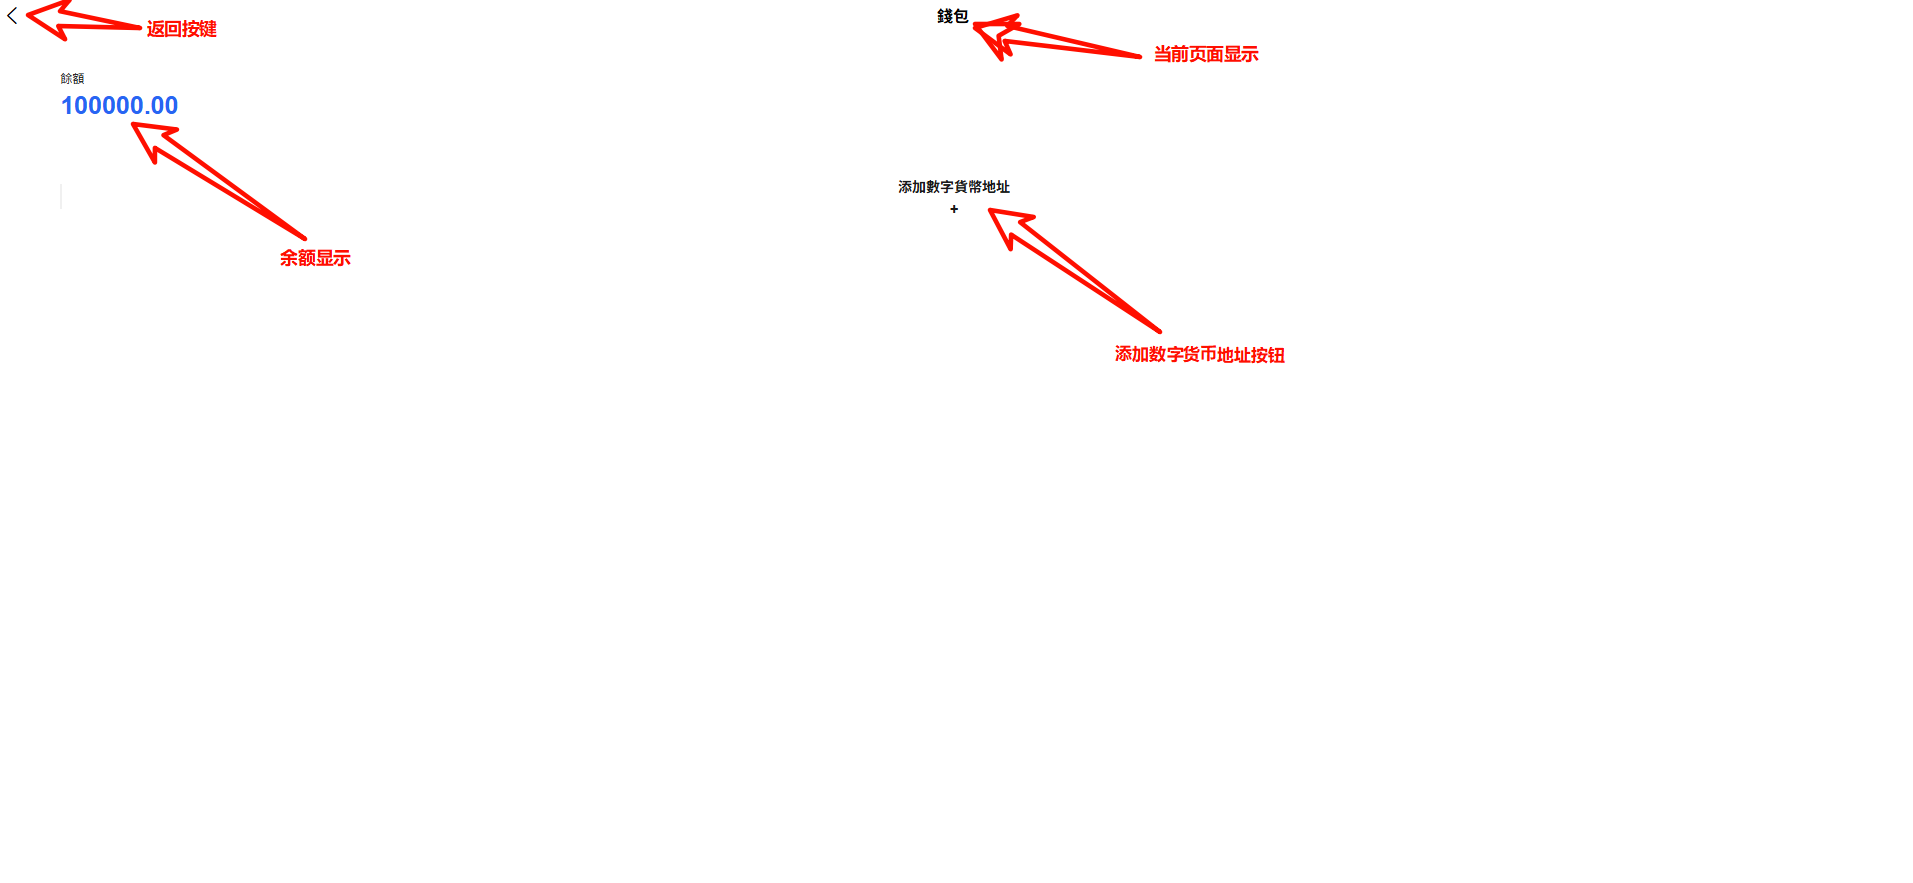
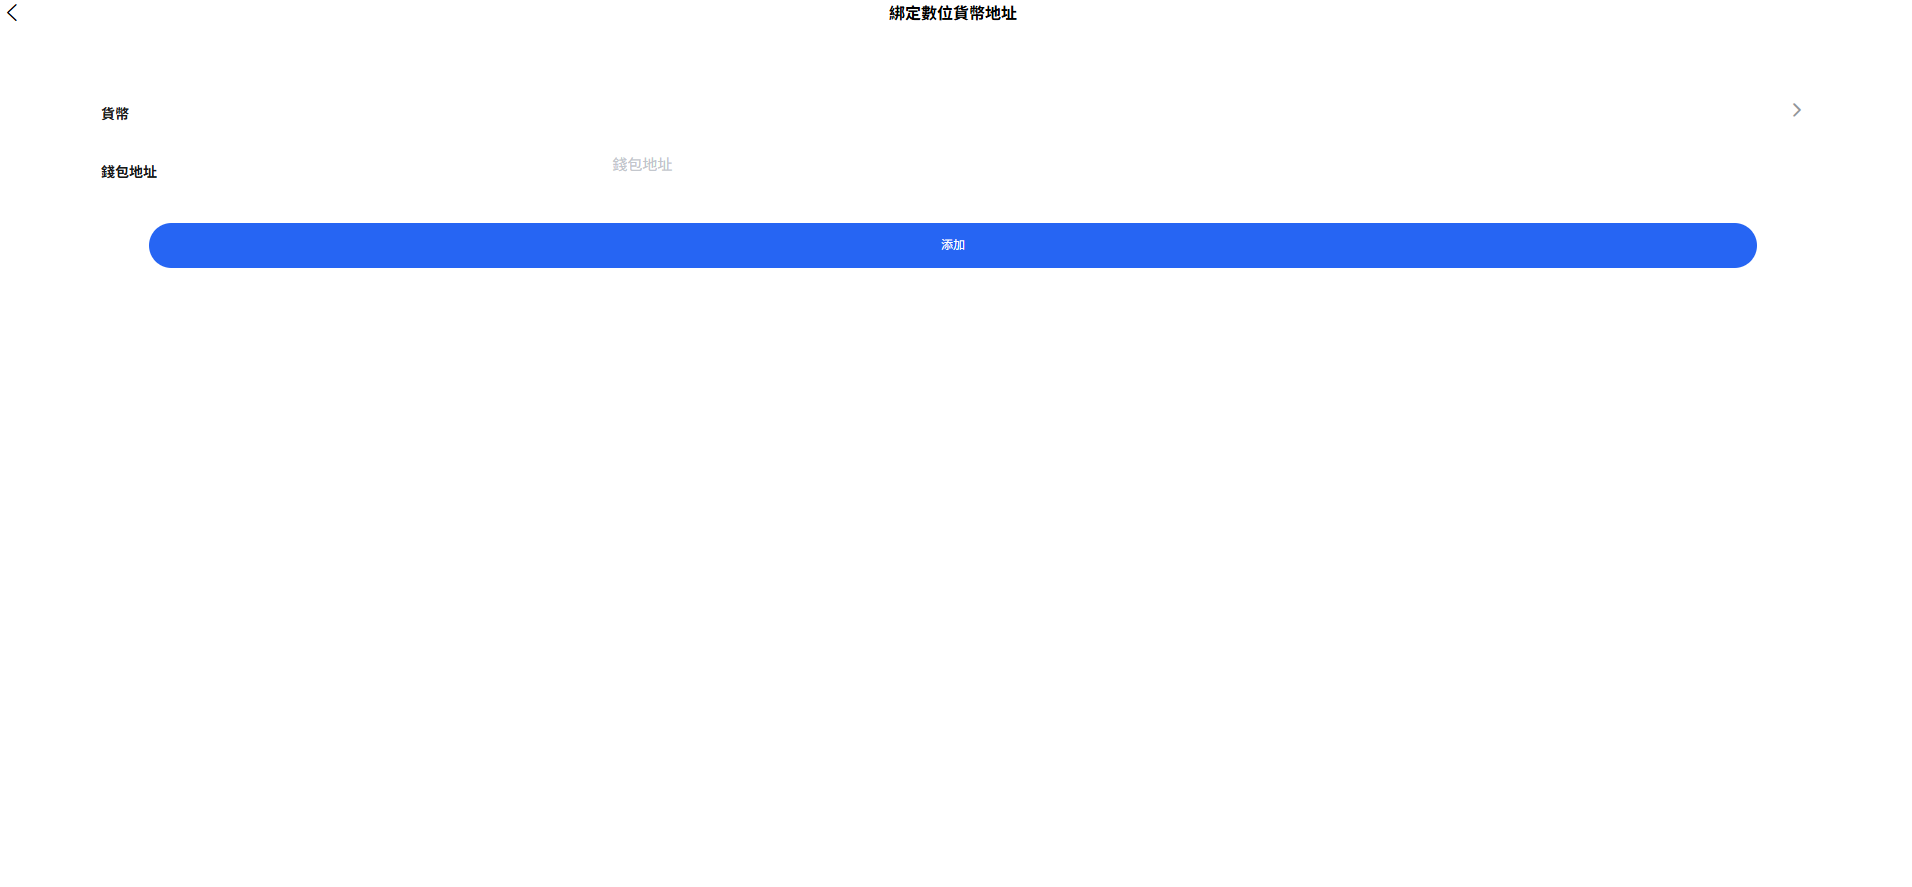
feat: 将数字货币地址绑定从弹窗改为独立页面

diff --git a/src/app/[locale]/wallet/page.tsx b/src/app/[locale]/wallet/page.tsx
@@ -19,50 +19,6 @@ export default function WalletAuthorizePage() {
   const { balance, syncFromBackend } = useAssetStore();
 
   const [wallets, setWallets] = useState<Wallet[]>([]);
-  const [newWalletAddress, setNewWalletAddress] = useState('');
-  const [selectedChain, setSelectedChain] = useState('ETH');
-  const [isConnecting, setIsConnecting] = useState(false);
-  const [error, setError] = useState('');
-  const [showAddModal, setShowAddModal] = useState(false);
-
-  const handleConnect = () => {
-    setError('');
-
-    if (!newWalletAddress) {
-      setError('请输入钱包地址');
-      return;
-    }
-
-    if (!/^0x[a-fA-F0-9]{40}$/.test(newWalletAddress)) {
-      setError('无效的钱包地址格式');
-      return;
-    }
-
-    const isAlreadyConnected = wallets.some(
-      (w) => w.address.toLowerCase() === newWalletAddress.toLowerCase()
-    );
-    if (isAlreadyConnected) {
-      setError('该钱包地址已连接');
-      return;
-    }
-
-    setIsConnecting(true);
-
-    setTimeout(() => {
-      const newWallet: Wallet = {
-        address: newWalletAddress,
-        chain: selectedChain,
-        connectedAt: new Date().toISOString(),
-      };
-
-      setWallets([...wallets, newWallet]);
-      setNewWalletAddress('');
-      setIsConnecting(false);
-      setShowAddModal(false);
-
-      console.log(`[Wallet] Connected wallet: ${newWalletAddress} on ${selectedChain}`);
-    }, 1000);
-  };
 
   const handleDisconnect = (address: string) => {
     setWallets(wallets.filter((w) => w.address !== address));
@@ -135,7 +91,7 @@ export default function WalletAuthorizePage() {
               {/* 添加数字货币地址按钮 - 居中显示 */}
               <div className="flex justify-center">
                 <button
-                  onClick={() => setShowAddModal(true)}
+                  onClick={() => router.push('/wallet/bind')}
                   className="flex items-center justify-center gap-2 rounded-2xl border-2 border-white/30 bg-gradient-to-b from-blue-100/85 to-blue-200/85 px-8 py-4 shadow-xl shadow-blue-300/50 backdrop-blur-md hover:from-blue-200/85 hover:to-blue-300/85 hover:shadow-2xl hover:shadow-blue-400/50 transition-all duration-300"
                 >
                   <div className="flex h-8 w-8 items-center justify-center rounded-full bg-blue-300/80 shadow-md">
@@ -194,85 +150,7 @@ export default function WalletAuthorizePage() {
             </div>
           </div>
 
-          {/* 添加钱包弹窗 */}
-          {showAddModal && (
-            <div className="fixed inset-0 z-50 flex items-center justify-center bg-black bg-opacity-50">
-              <div className="w-full max-w-sm rounded-lg bg-white p-5 shadow-xl">
-                <div className="mb-4 flex items-center justify-between">
-                  <h3 className="text-base font-semibold text-gray-900">添加数字货币地址</h3>
-                  <button
-                    onClick={() => {
-                      setShowAddModal(false);
-                      setError('');
-                      setNewWalletAddress('');
-                    }}
-                    className="rounded-md p-1.5 hover:bg-gray-100 transition-colors"
-                  >
-                    <svg
-                      className="h-4 w-4 text-gray-500"
-                      fill="none"
-                      stroke="currentColor"
-                      viewBox="0 0 24 24"
-                    >
-                      <path
-                        strokeLinecap="round"
-                        strokeLinejoin="round"
-                        strokeWidth={2}
-                        d="M6 18L18 6M6 6l12 12"
-                      />
-                    </svg>
-                  </button>
-                </div>
 
-                <div className="space-y-3">
-                  <div>
-                    <label htmlFor="chain" className="mb-1.5 block text-xs font-medium text-gray-700">
-                      选择链
-                    </label>
-                    <select
-                      id="chain"
-                      value={selectedChain}
-                      onChange={(e) => setSelectedChain(e.target.value)}
-                      className="block w-full rounded-md border border-gray-300 px-2.5 py-1.5 text-xs shadow-sm focus:border-blue-500 focus:outline-none focus:ring-blue-500"
-                    >
-                      <option value="ETH">Ethereum (ETH)</option>
-                      <option value="BSC">BSC</option>
-                      <option value="POLYGON">Polygon</option>
-                      <option value="SOL">Solana</option>
-                    </select>
-                  </div>
-
-                  <div>
-                    <label htmlFor="walletAddress" className="mb-1.5 block text-xs font-medium text-gray-700">
-                      钱包地址
-                    </label>
-                    <input
-                      id="walletAddress"
-                      type="text"
-                      value={newWalletAddress}
-                      onChange={(e) => setNewWalletAddress(e.target.value)}
-                      placeholder="0x1234567890abcdef1234567890abcdef12345678"
-                      className="block w-full rounded-md border border-gray-300 px-2.5 py-1.5 font-mono text-xs shadow-sm focus:border-blue-500 focus:outline-none focus:ring-blue-500"
-                    />
-                  </div>
-
-                  {error && (
-                    <div className="rounded-md bg-red-50 p-2.5">
-                      <p className="text-xs text-red-800">{error}</p>
-                    </div>
-                  )}
-
-                  <button
-                    onClick={handleConnect}
-                    disabled={isConnecting}
-                    className="w-full rounded-md bg-blue-600 px-3 py-1.5 text-xs text-white font-medium hover:bg-blue-700 focus:outline-none focus:ring-2 focus:ring-blue-500 focus:ring-offset-2 disabled:opacity-50 disabled:cursor-not-allowed transition-colors"
-                  >
-                    {isConnecting ? '连接中...' : '连接钱包'}
-                  </button>
-                </div>
-              </div>
-            </div>
-          )}
         </div>
       </AuthGuard>
     </PageShell>

diff --git a/src/app/[locale]/wallet/bind/page.tsx b/src/app/[locale]/wallet/bind/page.tsx
@@ -1,0 +1,162 @@
+'use client';
+
+import { useState, useEffect } from 'react';
+import { useRouter } from 'next/navigation';
+import { AuthGuard } from '../../../../components/auth-guard';
+import { PageShell } from '../../../../components/layout/page-shell';
+import { useAuthStore } from '../../../../stores/authStore';
+
+export interface Wallet {
+  address: string;
+  chain: string;
+  connectedAt: string;
+}
+
+const CURRENCIES = [
+  { id: 'ETH', name: 'Ethereum', icon: '⟠' },
+  { id: 'BSC', name: 'BSC', icon: '⟠' },
+  { id: 'POLYGON', name: 'Polygon', icon: '⟠' },
+  { id: 'SOL', name: 'Solana', icon: '◎' },
+];
+
+export default function BindWalletPage() {
+  const router = useRouter();
+  const { user, isHydrated } = useAuthStore();
+
+  const [wallets, setWallets] = useState<Wallet[]>([]);
+  const [selectedCurrency, setSelectedCurrency] = useState(CURRENCIES[0]);
+  const [walletAddress, setWalletAddress] = useState('');
+  const [error, setError] = useState('');
+  const [isBinding, setIsBinding] = useState(false);
+
+  const handleBind = () => {
+    setError('');
+
+    if (!walletAddress) {
+      setError('请输入钱包地址');
+      return;
+    }
+
+    if (!/^0x[a-fA-F0-9]{40}$/.test(walletAddress)) {
+      setError('无效的钱包地址格式');
+      return;
+    }
+
+    const isAlreadyBound = wallets.some(
+      (w: Wallet) => w.address.toLowerCase() === walletAddress.toLowerCase()
+    );
+    if (isAlreadyBound) {
+      setError('该钱包地址已绑定');
+      return;
+    }
+
+    setIsBinding(true);
+
+    setTimeout(() => {
+      const newWallet: Wallet = {
+        address: walletAddress,
+        chain: selectedCurrency.id,
+        connectedAt: new Date().toISOString(),
+      };
+
+      setWallets([...wallets, newWallet]);
+      setIsBinding(false);
+      router.push('/wallet');
+    }, 1000);
+  };
+
+  return (
+    <PageShell loading={false}>
+      <AuthGuard>
+        <div className="min-h-screen bg-white">
+          {/* 左上角返回按钮 */}
+          <button
+            onClick={() => router.back()}
+            className="fixed left-4 top-4 z-50 flex items-center gap-1 text-gray-700 hover:text-gray-900"
+          >
+            <svg
+              className="h-6 w-6"
+              fill="none"
+              stroke="currentColor"
+              viewBox="0 0 24 24"
+            >
+              <path
+                strokeLinecap="round"
+                strokeLinejoin="round"
+                strokeWidth={2}
+                d="M15 19l-7-7 7-7"
+              />
+            </svg>
+          </button>
+
+          {/* 顶部标题 */}
+          <div className="fixed top-4 left-1/2 -translate-x-1/2 z-50">
+            <h1 className="text-xl font-bold text-gray-900">绑定數位貨幣地址</h1>
+          </div>
+
+          {/* 主要内容 */}
+          <div className="min-h-screen flex items-center justify-center p-4 pt-20">
+            <div className="w-full max-w-md space-y-4">
+              {/* 货币选择栏 */}
+              <div className="flex items-center justify-between border-b border-gray-200 pb-3">
+                <span className="text-sm text-gray-700">貨幣</span>
+                <button
+                  className="flex items-center gap-2 text-sm text-gray-600"
+                  onClick={() => {
+                    // 简单的货币切换逻辑
+                    const currentIndex = CURRENCIES.findIndex(c => c.id === selectedCurrency.id);
+                    const nextIndex = (currentIndex + 1) % CURRENCIES.length;
+                    setSelectedCurrency(CURRENCIES[nextIndex]);
+                  }}
+                >
+                  <span className="text-gray-900">{selectedCurrency.name}</span>
+                  <svg
+                    className="h-4 w-4"
+                    fill="none"
+                    stroke="currentColor"
+                    viewBox="0 0 24 24"
+                  >
+                    <path
+                      strokeLinecap="round"
+                      strokeLinejoin="round"
+                      strokeWidth={2}
+                      d="M9 5l7 7-7 7"
+                    />
+                  </svg>
+                </button>
+              </div>
+
+              {/* 钱包地址输入框 */}
+              <div className="flex items-center justify-between border-b border-gray-200 pb-3">
+                <span className="text-sm text-gray-700">錢包地址</span>
+                <input
+                  type="text"
+                  value={walletAddress}
+                  onChange={(e) => setWalletAddress(e.target.value)}
+                  placeholder="錢包地址"
+                  className="flex-1 text-right text-sm text-gray-600 outline-none placeholder:text-gray-400"
+                />
+              </div>
+
+              {/* 错误提示 */}
+              {error && (
+                <div className="rounded-md bg-red-50 p-3">
+                  <p className="text-sm text-red-800 text-center">{error}</p>
+                </div>
+              )}
+
+              {/* 添加按钮 */}
+              <button
+                onClick={handleBind}
+                disabled={isBinding}
+                className="w-full rounded-lg bg-blue-500 py-3 text-sm font-medium text-white hover:bg-blue-600 focus:outline-none focus:ring-2 focus:ring-blue-500 focus:ring-offset-2 disabled:opacity-50 disabled:cursor-not-allowed transition-colors"
+              >
+                {isBinding ? '绑定中...' : '添加'}
+              </button>
+            </div>
+          </div>
+        </div>
+      </AuthGuard>
+    </PageShell>
+  );
+}
